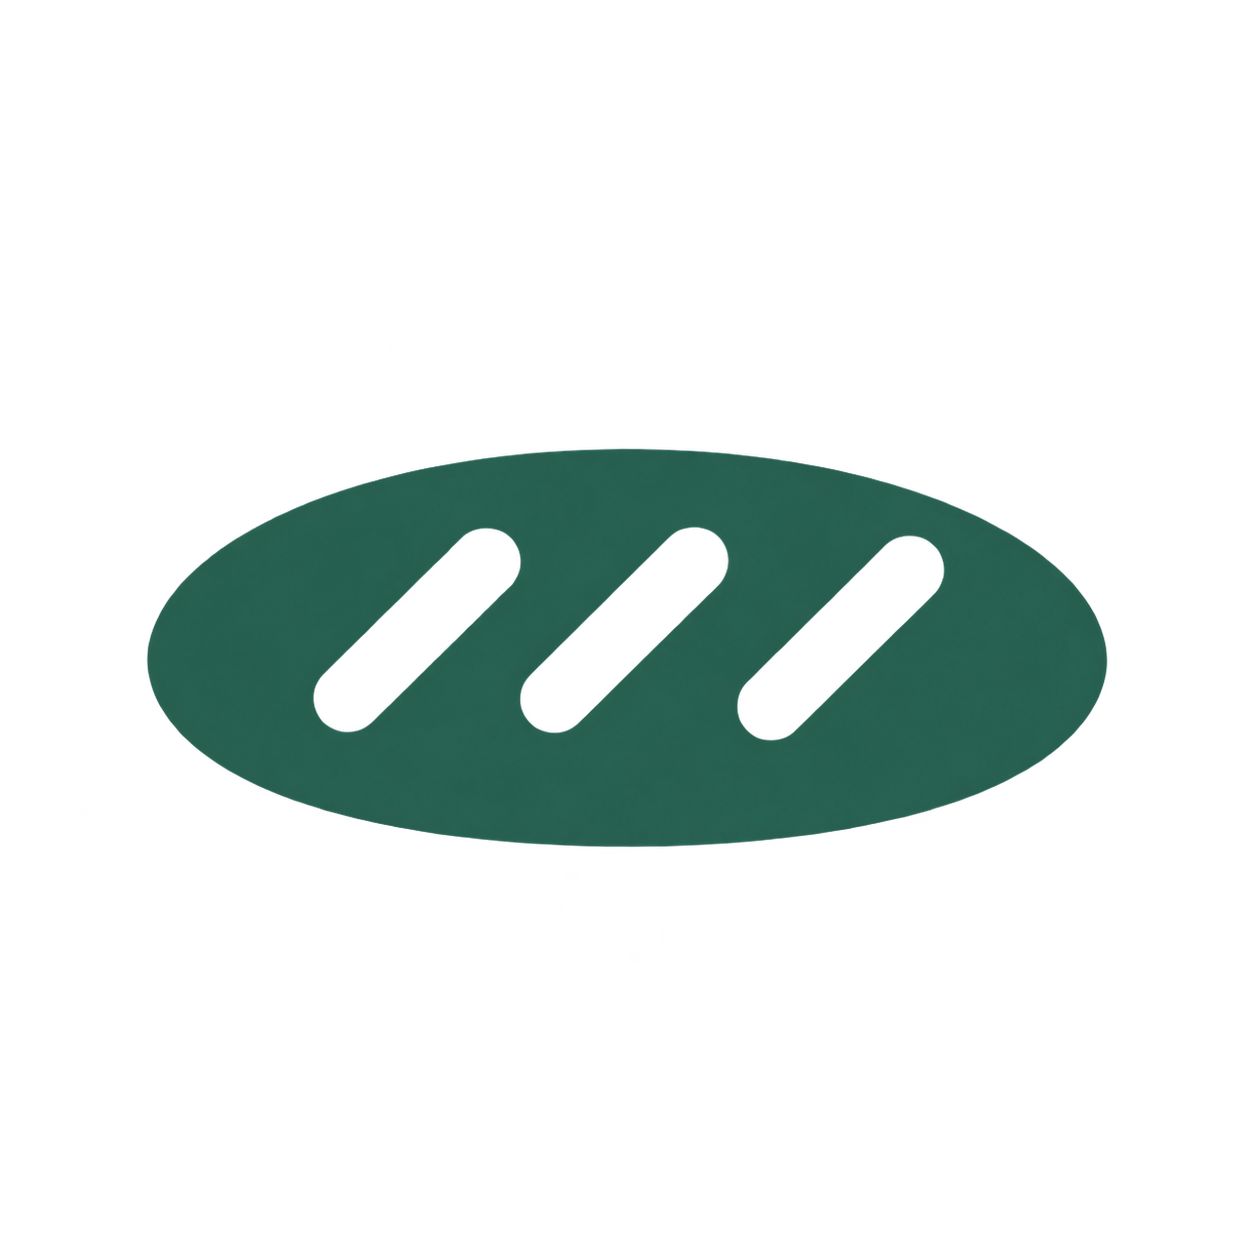
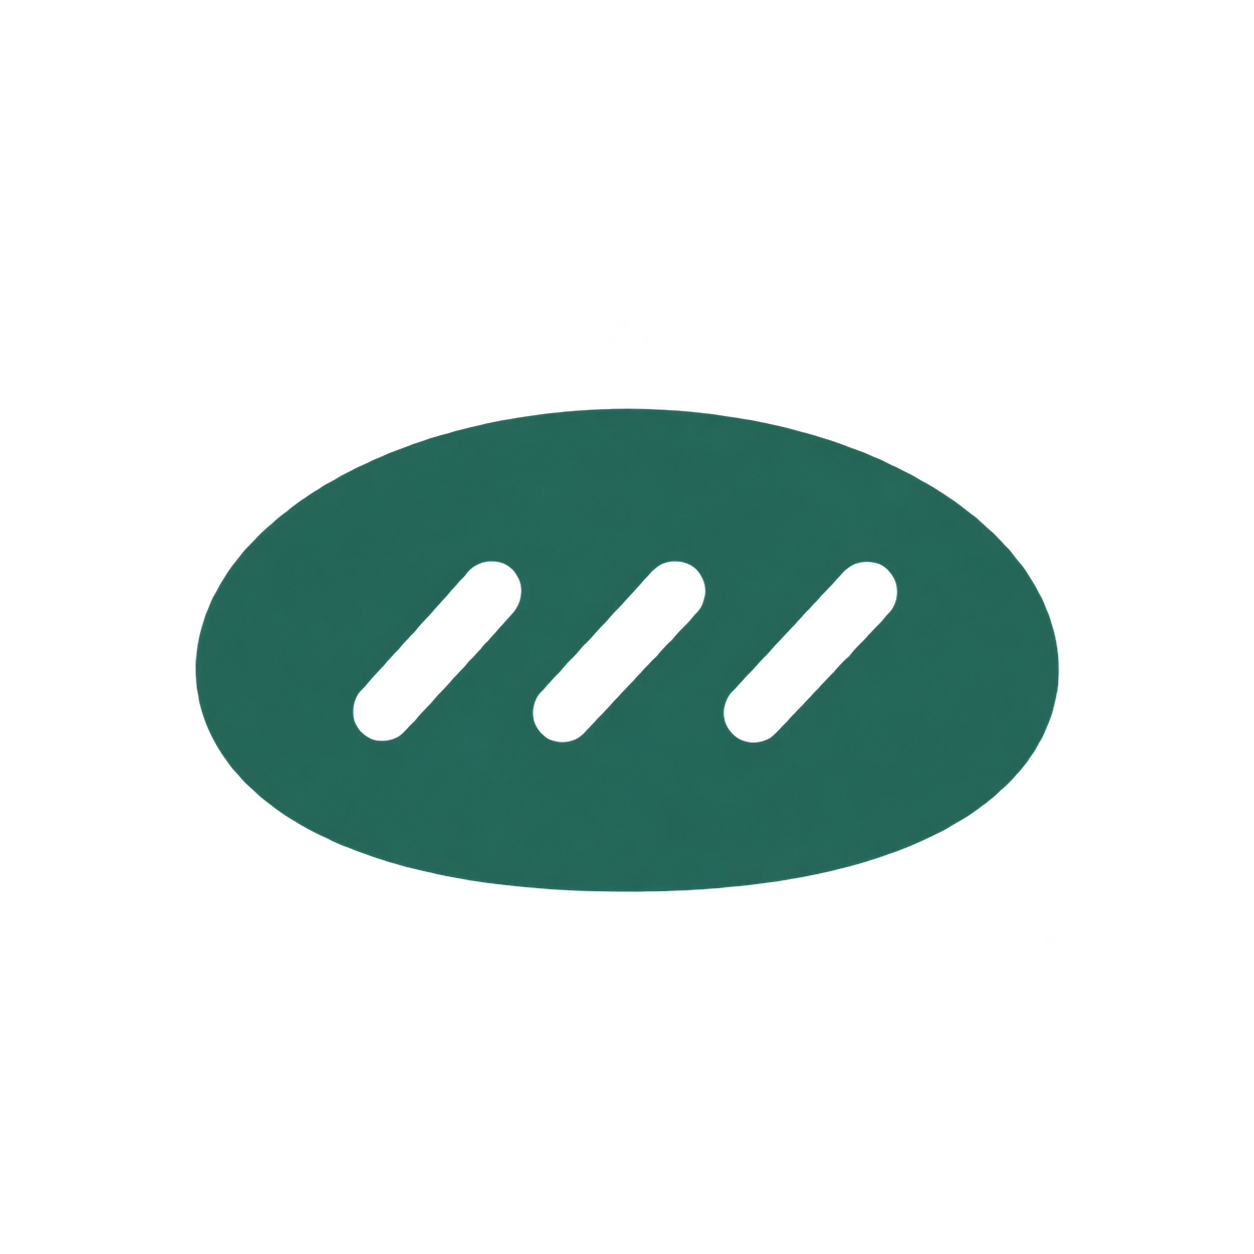
Thicken bread and corner arrow silhouettes

diff --git a/docs/ui-trial/board-symbols-v03.md b/docs/ui-trial/board-symbols-v03.md
@@ -1,0 +1,7 @@
+# 두툼한 빵과 블록 화살표 v0.3
+
+2026-10-21. 빵이 가늘고 코너 화살표가 얇다는 피드백에 따라 두 그림을 native image_gen.imagegen으로 다시 출력했다. 빵은 세로 비율을 키운 통통한 타원과 짧은 홈 세 개, 코너는 넓은 직사각형 몸통과 꽉 찬 삼각형 머리가 붙은 블록 화살표로 바꿨다.
+
+두 원본은 1254×1254 RGBA PNG이며 재가공 없이 기존 경로에 복사했다. AtlasTexture의 피사체 영역만 새 원본의 알파 경계에 맞춰 갱신했다. 단색 갈색·초록 표시와 256px 임포트, 빵의 타일별 회전, 다음 칸을 가리키는 코너 방향은 유지했다. 출발·반환점의 작은 화살표도 같은 새 화살표를 공유한다.
+
+실제 게임·전체 보드·빵집 네 곳·옷장 두 곳·코너 두 곳의 단일 타일·부스터 위 함정을 네이티브 Godot에서 렌더링하고 BOARD_DECALS_OK를 확인했다. 원본·프롬프트·SHA-256·교체 전 그림은 워크스페이스 outputs/board-symbols-v03/에 보관하며, 프로젝트 manifest.json도 갱신했다. 이미지 모델 식별자는 도구가 공개하지 않는다.
